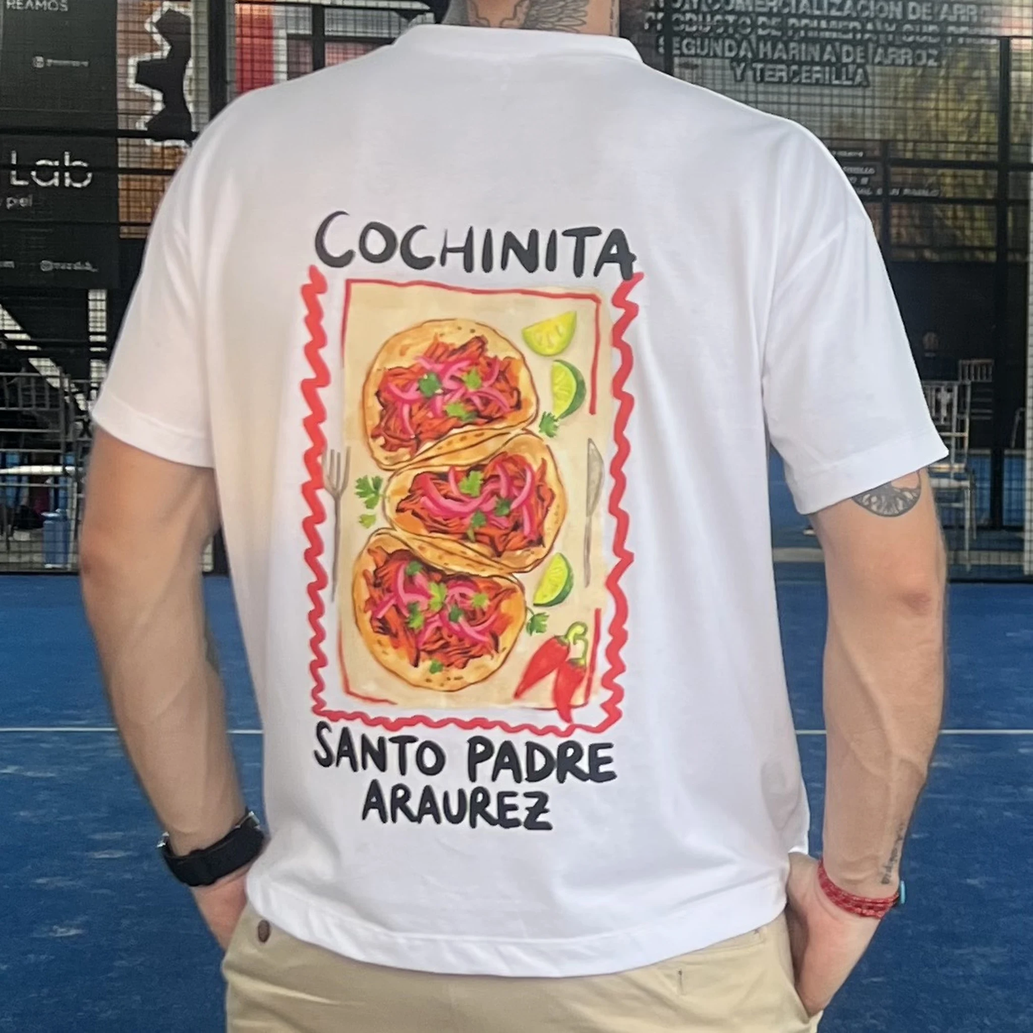
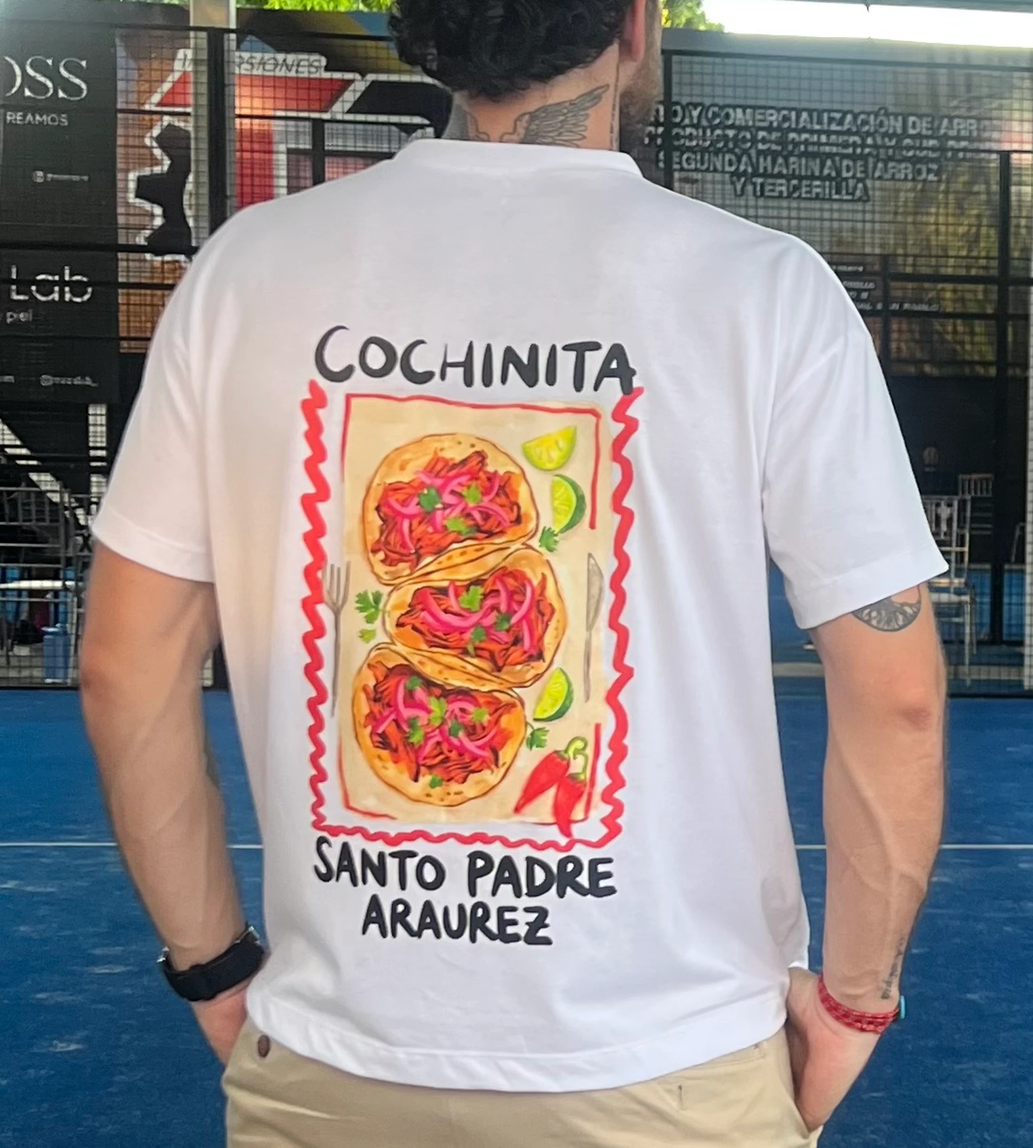
feat(catalog): add reusable product image gallery + fix shirt colors
Products can now declare an `images` array to get a lightweight
gallery on their card thumb (dots + hover arrows), instead of a
single static image. Falls back to the existing single-image
rendering when `images` isn't set, so no other product is affected.

Also fixed color and framing on the Cochinita shirt photos: the
source JPEGs carry a Display P3 ICC profile that wasn't being
converted to sRGB, which washed out the colors. Re-processed both
through a proper color-managed conversion and cropped to the card's
exact 9:10 ratio so nothing gets cropped further by the browser.
Added a second photo (full-body shot) as the new gallery's second
slide.

diff --git a/index.html b/index.html
@@ -1080,6 +1080,71 @@
       filter: saturate(1.1);
     }
 
+    .thumb-slide {
+      position: absolute;
+      inset: 0;
+      background-size: cover;
+      background-position: center;
+      opacity: 0;
+      transition: opacity 0.4s ease;
+    }
+
+    .thumb-slide.active {
+      opacity: 1;
+    }
+
+    .thumb-dots {
+      position: absolute;
+      bottom: 12px;
+      left: 50%;
+      transform: translateX(-50%);
+      display: flex;
+      gap: 6px;
+      z-index: 5;
+    }
+
+    .thumb-dot {
+      width: 6px;
+      height: 6px;
+      border-radius: 50%;
+      background: rgba(255, 255, 255, 0.4);
+      cursor: pointer;
+      transition: background 0.2s, transform 0.2s;
+    }
+
+    .thumb-dot.active {
+      background: var(--bone);
+      transform: scale(1.3);
+    }
+
+    .thumb-arrow {
+      position: absolute;
+      top: 50%;
+      transform: translateY(-50%);
+      width: 30px;
+      height: 30px;
+      border-radius: 50%;
+      border: none;
+      background: rgba(0, 0, 0, 0.45);
+      color: var(--bone);
+      display: flex;
+      align-items: center;
+      justify-content: center;
+      font-size: 18px;
+      line-height: 1;
+      cursor: pointer;
+      z-index: 5;
+      opacity: 0;
+      transition: opacity 0.2s;
+    }
+
+    .thumb-gallery:hover .thumb-arrow {
+      opacity: 1;
+    }
+
+    .thumb-arrow.prev { left: 10px; }
+    .thumb-arrow.next { right: 10px; }
+
     .product-card h3 {
       font-size: 32px;
       text-transform: uppercase;
@@ -3420,8 +3485,8 @@
     <link rel="stylesheet"
       href="https://fonts.googleapis.com/css2?family=Archivo:wdth,wght@50..125,300..900&family=Space+Grotesk:wght@300..700&family=Gilda+Display&display=swap">
   </noscript>
-  <script src="js/catalog.min.js?v=1.48"></script>
-  <script src="js/app.min.js?v=1.55"></script>
+  <script src="js/catalog.min.js?v=1.49"></script>
+  <script src="js/app.min.js?v=1.56"></script>
   <script type="module" src="js/user-profile.js?v=1.47"></script>
   <script>
     // Google Fonts: inject via JS to avoid render-blocking

diff --git a/js/app.js b/js/app.js
@@ -248,6 +248,24 @@ function spawnIcon(container, xPos, iconName) {
   }, duration * 1000);
 }
 
+function setThumbSlide(e, index) {
+  e.stopPropagation();
+  const gallery = e.currentTarget.closest('.thumb-gallery');
+  if (!gallery) return;
+  gallery.querySelectorAll('.thumb-slide').forEach((s, i) => s.classList.toggle('active', i === index));
+  gallery.querySelectorAll('.thumb-dot').forEach((d, i) => d.classList.toggle('active', i === index));
+}
+
+function stepThumbSlide(e, dir) {
+  e.stopPropagation();
+  const gallery = e.currentTarget.closest('.thumb-gallery');
+  if (!gallery) return;
+  const slides = [...gallery.querySelectorAll('.thumb-slide')];
+  const current = slides.findIndex(s => s.classList.contains('active'));
+  const next = (current + dir + slides.length) % slides.length;
+  setThumbSlide(e, next);
+}
+
 function scrollToProduct(id) {
   const el = document.getElementById(`product-${id}`);
   if (el) {
@@ -301,6 +319,18 @@ function renderProductCard(item, catId = '') {
         <video muted loop playsinline class="product-video" style="width:100%; height:100%; object-fit:cover;" preload="metadata" poster="${item.image || ''}" onmouseover="this.play()" onmouseout="this.pause()">
           <source src="${item.video}" type="video/mp4">
         </video>
+        ${badgeHtml}
+      </div>
+    `;
+  } else if (item.images && item.images.length > 1) {
+    mediaHtml = `
+      <div class="thumb thumb-gallery">
+        ${item.images.map((img, i) => `<div class="thumb-slide${i === 0 ? ' active' : ''}" style="background-image: url('${img}')"></div>`).join('')}
+        <div class="thumb-dots">
+          ${item.images.map((_, i) => `<span class="thumb-dot${i === 0 ? ' active' : ''}" onclick="setThumbSlide(event, ${i})"></span>`).join('')}
+        </div>
+        <button class="thumb-arrow prev" onclick="stepThumbSlide(event, -1)" aria-label="Foto anterior">&#8249;</button>
+        <button class="thumb-arrow next" onclick="stepThumbSlide(event, 1)" aria-label="Foto siguiente">&#8250;</button>
         ${badgeHtml}
       </div>
     `;

diff --git a/js/app.min.js b/js/app.min.js
@@ -229,6 +229,24 @@ function spawnIcon(container, xPos, iconName) {
   }, duration * 1000);
 }
 
+function setThumbSlide(e, index) {
+  e.stopPropagation();
+  const gallery = e.currentTarget.closest('.thumb-gallery');
+  if (!gallery) return;
+  gallery.querySelectorAll('.thumb-slide').forEach((s, i) => s.classList.toggle('active', i === index));
+  gallery.querySelectorAll('.thumb-dot').forEach((d, i) => d.classList.toggle('active', i === index));
+}
+
+function stepThumbSlide(e, dir) {
+  e.stopPropagation();
+  const gallery = e.currentTarget.closest('.thumb-gallery');
+  if (!gallery) return;
+  const slides = [...gallery.querySelectorAll('.thumb-slide')];
+  const current = slides.findIndex(s => s.classList.contains('active'));
+  const next = (current + dir + slides.length) % slides.length;
+  setThumbSlide(e, next);
+}
+
 function scrollToProduct(id) {
   const el = document.getElementById(`product-${id}`);
   if (el) {
@@ -282,6 +300,18 @@ function renderProductCard(item, catId = '') {
         <video muted loop playsinline class="product-video" style="width:100%; height:100%; object-fit:cover;" preload="metadata" poster="${item.image || ''}" onmouseover="this.play()" onmouseout="this.pause()">
           <source src="${item.video}" type="video/mp4">
         </video>
+        ${badgeHtml}
+      </div>
+    `;
+  } else if (item.images && item.images.length > 1) {
+    mediaHtml = `
+      <div class="thumb thumb-gallery">
+        ${item.images.map((img, i) => `<div class="thumb-slide${i === 0 ? ' active' : ''}" style="background-image: url('${img}')"></div>`).join('')}
+        <div class="thumb-dots">
+          ${item.images.map((_, i) => `<span class="thumb-dot${i === 0 ? ' active' : ''}" onclick="setThumbSlide(event, ${i})"></span>`).join('')}
+        </div>
+        <button class="thumb-arrow prev" onclick="stepThumbSlide(event, -1)" aria-label="Foto anterior">&#8249;</button>
+        <button class="thumb-arrow next" onclick="stepThumbSlide(event, 1)" aria-label="Foto siguiente">&#8250;</button>
         ${badgeHtml}
       </div>
     `;

diff --git a/js/catalog.js b/js/catalog.js
@@ -234,6 +234,7 @@ const CATALOG = {
           name: "Camiseta de Cochinita Araurez",
           description: "Algodón premium de 200g. Ilustración de tacos de cochinita pintada a mano en la espalda, edición Santo Padre Araurez.",
           image: "assets/camisa-cochinita.webp",
+          images: ["assets/camisa-cochinita.webp", "assets/camisa-cochinita-2.webp"],
           price: 20.00,
           hasVariants: true,
           variants: [

diff --git a/js/catalog.min.js b/js/catalog.min.js
@@ -232,6 +232,7 @@ const CATALOG = {
           name: "Camiseta de Cochinita Araurez",
           description: "Algodón premium de 200g. Ilustración de tacos de cochinita pintada a mano en la espalda, edición Santo Padre Araurez.",
           image: "assets/camisa-cochinita.webp",
+          images: ["assets/camisa-cochinita.webp", "assets/camisa-cochinita-2.webp"],
           price: 20.00,
           hasVariants: true,
           variants: [
